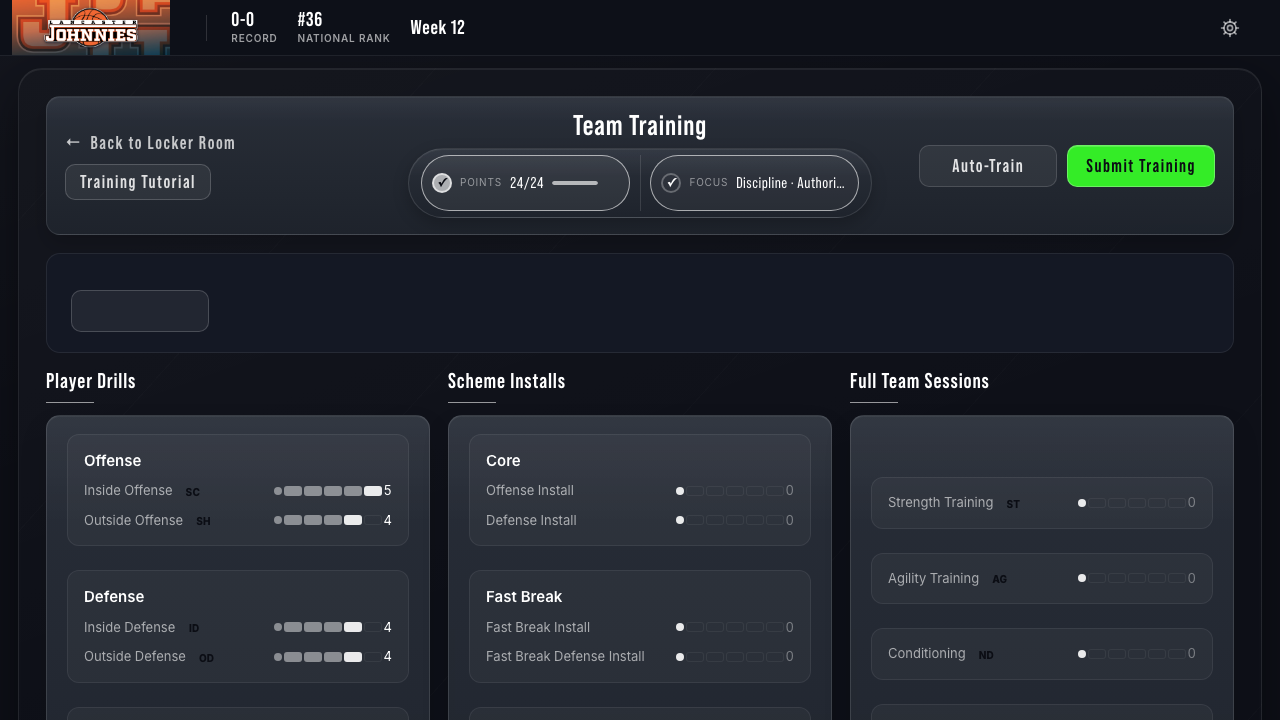
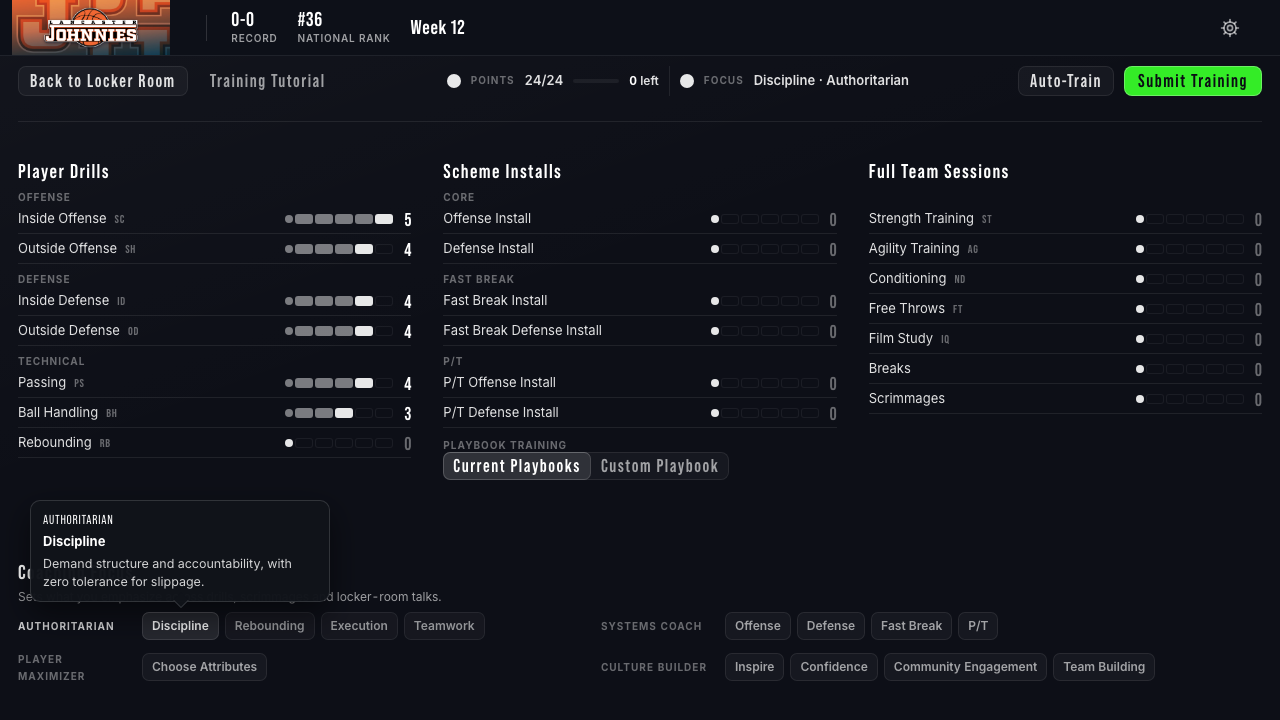
Polish standalone training to pip-only rows and a titled report after merging stale-return.
Keep training-week Advance on /training.html and never offer a finished week's Advance after a return; include the report and reshot screenshots in this commit.

diff --git a/tests/e2e/training-advance-focus.spec.js b/tests/e2e/training-advance-focus.spec.js
@@ -251,7 +251,21 @@ async function expectHeaderVisible(page) {
 
 async function capturePage(page, dest) {
   await resetScroll(page);
-  await page.screenshot({ path: dest });
+  const host = new URL(page.url()).pathname;
+  if (host === '/training.html' || host === '/training-report.html') {
+    await page.waitForFunction(() => {
+      if (!document.documentElement.classList.contains('gob-focus')) return false;
+      if (document.querySelector('nav.rail')) return false;
+      if (document.getElementById('play-now')) return false;
+      if ((document.body.innerText || '').includes('STARTING')) return false;
+      return true;
+    });
+  }
+  await page.evaluate(() => document.fonts && document.fonts.ready);
+  await page.evaluate(() => new Promise((resolve) => {
+    requestAnimationFrame(() => requestAnimationFrame(resolve));
+  }));
+  await page.screenshot({ path: dest, animations: 'disabled' });
 }
 
 function fccQuery(tab) {
@@ -353,7 +367,7 @@ test('a) training week Advance → focus → allocate → Submit → Report → 
   await waitOverlay(page);
   await expect(page.locator('#back-btn')).toHaveText('Back to Locker Room');
   await expect(page.locator('#submit-btn')).toHaveText('Submit Training');
-  await expect(page.locator('.slider').first()).toBeVisible({ timeout: 30000 });
+  await expect(page.locator('#training-view .ps').first()).toBeVisible({ timeout: 30000 });
   await expect(page.locator('#player-dev-section')).toBeHidden();
   const focusLook = await page.evaluate(() => {
     const header = document.querySelector('#training-view .training-header');
@@ -368,17 +382,52 @@ test('a) training week Advance → focus → allocate → Submit → Report → 
       const name = (el.getAttribute('aria-label') || el.title || el.textContent || '').replace(/\s+/g, '');
       return !name.length;
     }).map((el) => el.id || el.className);
+    const rows = [...document.querySelectorAll('#training-view .slider-label')];
+    const rowControls = rows.map((row) => {
+      const range = row.querySelector('input[type=range]');
+      const pips = row.querySelector('.ps');
+      const box = (el) => {
+        if (!el) return { visible: false, w: 0 };
+        const s = getComputedStyle(el);
+        const r = el.getBoundingClientRect();
+        const clipped = s.clipPath && s.clipPath !== 'none';
+        const tiny = r.width <= 2 && r.height <= 2;
+        return {
+          visible: s.display !== 'none' && s.visibility !== 'hidden' && r.width > 8 && r.height > 4 && !clipped && !tiny,
+          w: r.width,
+        };
+      };
+      return { range: box(range), pips: box(pips) };
+    });
+    const fb = [...document.querySelectorAll('#training-view .label-text')].find((el) =>
+      (el.textContent || '').includes('Fast Break Defense'));
+    const coaching = document.querySelector('#training-view h2.coaching-title');
+    const cs = coaching ? getComputedStyle(coaching) : null;
     return {
       host: !!document.getElementById('training-view'),
       headerBgImage: hs ? hs.backgroundImage : '',
       noteDisplay: ns ? ns.display : '',
       emptyButtons: empty,
+      rowControls,
+      fbLabel: fb ? (fb.textContent || '').replace(/\s+/g, ' ').trim() : '',
+      fbOverflow: fb ? getComputedStyle(fb).overflow : '',
+      coachingAlign: cs ? cs.textAlign : '',
     };
   });
   expect(focusLook.host, JSON.stringify(focusLook)).toBe(true);
   expect(focusLook.headerBgImage, JSON.stringify(focusLook)).toBe('none');
   expect(focusLook.noteDisplay, JSON.stringify(focusLook)).toBe('none');
   expect(focusLook.emptyButtons, JSON.stringify(focusLook)).toEqual([]);
+  expect(focusLook.rowControls.length, JSON.stringify(focusLook)).toBeGreaterThan(0);
+  focusLook.rowControls.forEach((row) => {
+    expect(row.range.visible, JSON.stringify(row)).toBe(false);
+    expect(row.pips.visible, JSON.stringify(row)).toBe(true);
+  });
+  expect(focusLook.fbLabel, JSON.stringify(focusLook)).toBe('Fast Break Defense Install');
+  expect(focusLook.coachingAlign, JSON.stringify(focusLook)).toBe('left');
+  await page.reload({ waitUntil: 'domcontentloaded' });
+  await expect(page.locator('html.gob-focus')).toHaveCount(1);
+  await expect(page.locator('#training-view .ps').first()).toBeVisible({ timeout: 30000 });
   await capturePage(page, path.join(OUT, 'after-focus-default-1280.png'));
 
   await allocateClassic24(page);
@@ -395,6 +444,8 @@ test('a) training week Advance → focus → allocate → Submit → Report → 
   await expect(page.locator('#gob-subtabs')).toHaveCount(0);
   await expect(page.getByRole('button', { name: 'Continue to Office', exact: true })).toBeVisible({ timeout: 20000 });
   await expectHeaderVisible(page);
+  await expect(page.locator('#training-report-view h1.page-title')).toBeVisible();
+  await expect(page.locator('#training-report-view h1.page-title')).toHaveText('Training Report');
   await expect(page.locator('#training-focus')).toHaveText('Discipline (Authoritarian)');
   await expect(page.locator('#training-notes-container')).toContainText('Roger Henrich');
   await expect(page.locator('#training-notes-container')).not.toContainText('No training notes');
@@ -449,7 +500,7 @@ test('a) focus page at 1920 and Set Lineup chrome compare', async ({ page }) => 
   await stubAuth(page);
   await installApi(page);
   await page.goto('/training.html?franchise_id=' + FID + '&team_id=' + TEAM + '&mode=franchise&session_type=in-season');
-  await expect(page.locator('.slider').first()).toBeVisible({ timeout: 30000 });
+  await expect(page.locator('#training-view .ps').first()).toBeVisible({ timeout: 30000 });
   await expect(page.locator('html.gob-focus')).toHaveCount(1);
   await capturePage(page, path.join(OUT, 'after-focus-default-1920.png'));
 
@@ -517,7 +568,7 @@ test('d) camp week 1 Advance opens the focus page', async ({ page }) => {
   await page.locator('#play-now').click();
   await expect(page).toHaveURL(/\/training\.html/, { timeout: 20000 });
   await expect(page.locator('html.gob-focus')).toHaveCount(1);
-  await expect(page.locator('.slider').first()).toBeVisible({ timeout: 30000 });
+  await expect(page.locator('#training-view .ps').first()).toBeVisible({ timeout: 30000 });
   await expect(page.url()).toContain('session_type=preseason');
 });
 
@@ -531,7 +582,7 @@ test('e) tutorial path stays weekly focus on training.html', async ({ page }) =>
   await expect(page).toHaveURL(/mode=tutorial/);
   await expect(page.locator('html.gob-focus')).toHaveCount(1);
   await expect(page.locator('#submit-btn')).toBeVisible();
-  await expect(page.locator('.slider').first()).toBeVisible({ timeout: 30000 });
+  await expect(page.locator('#training-view .ps').first()).toBeVisible({ timeout: 30000 });
   await expect(page.locator('#player-dev-section')).toBeHidden();
   await capturePage(page, path.join(OUT, 'after-tutorial-1280.png'));
   await page.setViewportSize({ width: 1920, height: 1080 });
@@ -544,13 +595,13 @@ test('f) leave-confirm on unsaved allocation; clean Back just leaves', async ({ 
   await stubAuth(page);
   await installApi(page);
   await page.goto('/training.html?franchise_id=' + FID + '&team_id=' + TEAM + '&mode=franchise&session_type=in-season');
-  await expect(page.locator('.slider').first()).toBeVisible({ timeout: 30000 });
+  await expect(page.locator('#training-view .ps').first()).toBeVisible({ timeout: 30000 });
   await page.locator('#back-btn').click();
   await expect(page.locator('.gob-leave-confirm')).toHaveCount(0);
   await expect(page).toHaveURL(/franchise-command-center\.html/, { timeout: 20000 });
 
   await page.goto('/training.html?franchise_id=' + FID + '&team_id=' + TEAM + '&mode=franchise&session_type=in-season');
-  await expect(page.locator('.slider').first()).toBeVisible({ timeout: 30000 });
+  await expect(page.locator('#training-view .ps').first()).toBeVisible({ timeout: 30000 });
   await page.locator('.slider').first().evaluate((el) => {
     el.value = '2';
     el.dispatchEvent(new Event('input', { bubbles: true }));
@@ -601,6 +652,8 @@ test('h) Office All changes → standalone report → Back → Office', async ({
   test.skip(CAPTURE_BEFORE, 'after only');
   await page.setViewportSize({ width: 1280, height: 720 });
   await openOffice(page, { cc: officeWithChangesCc() });
+  await expect(page.locator('#play-now')).toHaveText('Play Next Game');
+  await expect(page.locator('#play-now')).not.toHaveText(/Run Training|Run Training Camp|Submit Training/);
   const link = page.locator('#office-root .wkc-f .lnk');
   await expect(link).toHaveText(/All changes/);
   const href = await link.getAttribute('href');
@@ -634,6 +687,7 @@ test('i) old /training-report.html and ?tab=training-report-view land on the sta
   await expect(page).toHaveURL(/\/training-report\.html/);
   await expect(page.locator('html.gob-focus')).toHaveCount(1);
   await expect(page.locator('#week-number')).toHaveText('12', { timeout: 20000 });
+  await expect(page.locator('#training-report-view h1.page-title')).toHaveText('Training Report');
   await expect(page.getByRole('button', { name: 'Back to Locker Room', exact: true })).toBeVisible();
   await expectHeaderVisible(page);
   await capturePage(page, path.join(OUT, 'after-report-standalone-1280.png'));

diff --git a/FrontEnd/static/training.css b/FrontEnd/static/training.css
@@ -2256,7 +2256,7 @@ body.training-page .slider-container .slider:focus-visible ~ .ps {
   grid-template-columns: minmax(0, 1fr) auto;
   align-items: center;
   gap: var(--space-12);
-  height: var(--dsz-30);
+  height: auto;
   min-height: var(--dsz-30);
   margin: 0;
   padding: 0;
@@ -2270,8 +2270,8 @@ body.training-page .slider-container .slider:focus-visible ~ .ps {
   font-size: var(--fs-13);
   font-weight: var(--fw-regular);
   color: var(--text-87);
-  white-space: nowrap;
-  overflow: hidden;
+  white-space: normal;
+  overflow: visible;
 }
 #training-view .attr-chip {
   display: inline;
@@ -2292,6 +2292,49 @@ body.training-page .slider-container .slider:focus-visible ~ .ps {
   gap: var(--space-12);
   margin: 0;
   background: transparent;
+}
+/* Same clip as body.training-page: the range stays the model, pips are the only control. */
+#training-view .slider-container .slider {
+  position: absolute;
+  width: 1px;
+  height: 1px;
+  margin: 0;
+  padding: 0;
+  overflow: hidden;
+  clip: rect(0 0 0 0);
+  clip-path: inset(50%);
+  white-space: nowrap;
+}
+#training-view .ps {
+  display: inline-flex;
+  align-items: center;
+  gap: var(--space-2);
+}
+#training-view .ps button {
+  display: block;
+  width: 18px;
+  height: 10px;
+  padding: 0;
+  border: 0;
+  border-radius: var(--radius-3);
+  background: var(--white-6);
+}
+#training-view .ps button:first-of-type {
+  width: 8px;
+  height: 8px;
+  border-radius: 50%;
+}
+#training-view .ps button.f { background: var(--white-45); }
+#training-view .ps button.c { background: var(--white-90); }
+#training-view .ps button.x {
+  background: transparent;
+  box-shadow: inset 0 0 0 1px var(--white-6);
+}
+#training-view .ps button:disabled { cursor: not-allowed; }
+#training-view .slider-container .slider:focus-visible ~ .ps {
+  outline: 2px solid var(--text-100);
+  outline-offset: 3px;
+  border-radius: var(--radius-3);
 }
 #training-view .slider-value,
 #training-view .ps-n {
@@ -2340,12 +2383,16 @@ body.training-page .slider-container .slider:focus-visible ~ .ps {
 }
 
 #training-view .coaching-section {
-  margin-top: var(--dsp-24);
+  margin-top: var(--dsp-16);
+}
+#training-view h2.coaching-title {
+  text-align: left;
 }
 #training-view .coaching-subtitle {
-  margin: calc(-1 * var(--dsp-6)) 0 var(--dsp-6);
+  margin: 0 0 var(--dsp-6);
   font-size: var(--fs-12);
   color: var(--text-60);
+  text-align: left;
 }
 #training-view .archetypes-grid {
   display: grid;

diff --git a/FrontEnd/static/training-report.css b/FrontEnd/static/training-report.css
@@ -1706,12 +1706,19 @@ body.training-report-page {
 }
 
 #training-report-view .report-header {
+  display: flex;
+  justify-content: space-between;
+  align-items: flex-start;
+  gap: var(--space-12);
   padding: 0 0 var(--dsp-16);
   background: transparent;
   box-shadow: none;
   border: 0;
 }
-#training-report-view .page-title {
+#training-report-view .page-title,
+#training-report-view .report-header .page-title {
+  display: block;
+  margin: 0 0 var(--dsp-6);
   font: var(--fw-bold) var(--fs-20)/var(--lh-1) var(--font-display);
   color: var(--text-100);
 }
@@ -1862,7 +1869,10 @@ body.training-report-page {
   height: var(--dsz-30);
   margin: 0 0 var(--dsp-10);
 }
-#training-report-view .report-header .page-title { display: none; }
+#training-report-view #locker-room-btn {
+  align-self: flex-start;
+  flex: none;
+}
 #training-report-view .toggle-btn,
 #training-report-view .toggle-btn.active {
   min-height: var(--dsz-28);

diff --git a/tests/e2e/prep-scouting-speed-sfx.spec.js b/tests/e2e/prep-scouting-speed-sfx.spec.js
@@ -247,9 +247,9 @@ test('training, training report, and scouting toggles use SFX_SELECT', async ({ 
     const overlay = document.getElementById('page-load-overlay');
     return !overlay || getComputedStyle(overlay).display === 'none';
   });
-  await expect(page.locator('.slider').first()).toBeVisible({ timeout: 30000 });
+  await expect(page.locator('#training-view .ps').first()).toBeVisible({ timeout: 30000 });
   const slider = page.locator('input[type="range"].slider').first();
-  await expect(slider).toBeVisible();
+  await expect(slider).toBeAttached();
   await armSpy(page);
   await slider.evaluate((el) => {
     el.value = String(Math.min(Number(el.max || 4), Number(el.value) + 1));

diff --git a/reports/training-advance-focus-2026-09-30.md b/reports/training-advance-focus-2026-09-30.md
@@ -54,13 +54,13 @@ Passed in Playwright.
 | `before-flow-in-app-1280.png` | Develop: weekly allocation on Prep › Player Training; Advance overridden to Submit Training |
 | `before-prep-player-training-1280.png` | Same develop Prep tab at 1280 |
 | `before-prep-player-training-1920.png` | Develop Prep tab at 1920 |
-| `after-focus-default-1280.png` | New weekly focus page, empty allocation |
-| `after-focus-allocated-unsaved-1280.png` | 24/24 + Discipline, Submit enabled |
-| `after-submit-report-1280.png` | Training Report drill-in after Submit |
-| `after-prep-player-training-1280.png` | Prep tab: PDG + pointer only; Advance still "Run Training" |
-| `after-focus-default-1920.png` | Focus page at 1920 |
-| `after-set-lineup-chrome-1280.png` | Set Lineup focus chrome for comparison (no rail, no shell Advance) |
-| `after-tutorial-1280.png` | Tutorial weekly focus |
+| `after-focus-default-1280.png` / `1920` | Tokenised weekly focus, empty allocation |
+| `after-focus-allocated-unsaved-1280.png` / `1920` | 24/24 + Discipline, Submit enabled |
+| `after-submit-report-1280.png` / `1920` | Standalone tokenised report after Submit (Discipline · Authoritarian) |
+| `after-prep-player-training-1280.png` / `1920` | Prep tab: PDG + pointer only |
+| `after-set-lineup-chrome-1280.png` | Set Lineup focus chrome for comparison |
+| `after-tutorial-1280.png` / `1920` | Tutorial weekly focus |
+| `after-report-from-office-1280.png` / `1920` | Office All changes → standalone report |
 
 ## Files
 
@@ -83,10 +83,10 @@ Passed in Playwright.
 
 ## Gates
 
-- `../gob-simplified/.venv/bin/python -m pytest --ignore=tests/e2e -q`: **4203 passed**, 14 skipped, 109 xfailed, **1 xpassed**, **0 failed** (226.20s). The xpass is pre-existing (not this branch).
-- Playwright (`env -u CI PORT=8260 BASE_URL=http://localhost:8260`, workers=1): **787 passed**, 6 skipped, **0 failed** (12.0m). Includes training-advance-focus a–j (report add-on).
-- `scripts/check_ui_tokens.py --strict --no-write`: **exit 0**. New colour-law 0 / 0 / 0. Legacy 210 green / 610 orange / 0 reward-gold (820).
-- `scripts/ci/check_migration_gates.py`: **passed**. Gate A: 0 imports in 0 files. Gate B: 134 lines in 42 files. Notes: `training.html` and `training-report.html` are now clean (0, was 1 each). Did **not** `--write-allowlist`.
+- `../gob-simplified/.venv/bin/python -m pytest -q`: **4232 passed**, 14 skipped, 109 xfailed, **1 xpassed**, **0 failed** (236.16s). The xpass is pre-existing (not this branch).
+- Playwright (`env -u CI PORT=8260 BASE_URL=http://localhost:8260`, workers=1, once): **772 passed**, 6 skipped, **0 failed** (11.8m).
+- `scripts/check_ui_tokens.py --strict --no-write`: **exit 0**. New colour-law 0 / 0 / 0. Legacy 204 green / 589 orange / 0 reward-gold (793).
+- `scripts/ci/check_migration_gates.py`: **passed**. Gate A: 0 imports in 0 files. Gate B: 136 lines in 44 files. Notes: `training.html` and `training-report.html` are now clean (0, was 1 each). Did **not** `--write-allowlist`.
 
 ## Add-on: Training Report is a standalone focus page
 
@@ -103,7 +103,45 @@ Passed in Playwright.
 | `after-report-standalone-1920.png` | Same at 1920 |
 | `after-set-lineup-chrome-1280.png` | Set Lineup focus chrome (unchanged compare) |
 
+## Look pass (not ready to merge)
+
+Merged `origin/develop` (ort, no conflict markers). Kept both sides: this branch’s training/report focus hosts, and develop’s `chore/redirects-fcc-leftovers` (FCC peel, stats/team-traits stubs, freeze ceilings). Did not add rules to `franchise-command-center.css`.
+
+### Why the standalones looked legacy
+
+Tokenised CSS is scoped to `#training-view` / `#training-report-view`. The standalone pages inited on `document.body` with `body.training-page` / `body.training-report-page`, so they painted the old resource-page gradient cards and red/green pill bars.
+
+The empty panel under the Team Training header was `#training-state-note`. Its `display: flex` outranked the UA `[hidden]` rule. The empty button was `#training-state-note-link` (a `gob-btn` with no text). `#training-view .training-state-note[hidden] { display: none }` already existed for the in-app host; standalone never hit it.
+
+### What changed
+
+- `/training.html` mounts `init(#training-view, { sections: 'weekly' })`. No `body.training-page`. Weekly tools stay in a flat tokenised toolbar (Back, Points/Focus, Auto-Train, Submit). The FCC tab still hides `.training-header` (tools park in the sub-tab row).
+- `/training-report.html` mounts `init(#training-report-view)`. Tokenised notes columns + 11-row Team Report list. Pill bars are not created on the token host and are `display: none` if anything still emits them.
+- Submit redirect fills `week` from FranchiseContext or the loaded training-points week. `gobAdvance` also writes `week` onto `/training.html`. The report GET is the same `/franchise/training-report?…&week=` as the old drill-in.
+
+### Data proof (same submit: Discipline · Authoritarian)
+
+After the same 24-point + Discipline submit, the standalone report shows **Training Focus: Discipline (Authoritarian)** and the same notes the tokenised in-FCC report used (Roger Henrich / No Significant Updates / Inside Defense / Man / Horn / Ready / Improving). GET includes `week=12`. Team Report is 11 list rows, white ▲, no pill bars.
+
+### Polish (this pass)
+
+Merged `origin/develop` again (`fix/fcc-stale-return`). Kept both: training-week Advance still goes to `/training.html`; after a return, a finished week's Advance is never offered (`gobNav.reloadIfStale` + `fcc-fresh-after-game.spec.js`). A completed training week on Office is `Play Next Game`, not Run Training (`training-advance-focus` test h).
+
+Focus rows clip the range input (same as in-app) so only the pip bar is the control. Scheme Install labels wrap so "Fast Break Defense Install" is complete at 1280. Coaching Focus is a left-aligned section heading with normal spacing. The standalone report shows `h1` "Training Report" above the week meta, with Continue to Office aligned to that title.
+
+### Next to `reports/prep-training-tokens/`
+
+| This pass | Tokenised reference |
+|---|---|
+| `after-focus-default-1280.png` / `1920` | `after-in-season-1280.png` / `after-camp-1280.png` (3-col sliders + coaching chips; focus chrome instead of rail/sub-tabs) |
+| `after-submit-report-1280.png` / `1920` | `after-report-1280.png` (notes columns + 11-row Team Report, white ▲) |
+
+### Guards
+
+Computed-style: focus header `background-image: none`; state-note `display: none`; no visible unnamed chrome buttons (slider pips and the settings gear use aria-label). Report: `#training-report-view` host, 11 `.team-attr-item` grid rows, 0 visible `.attr-pill`, Training Focus text equals the submitted leaf.
+
 ## Unsure
 
 - Desktop tutorial intercept still fires on first Advance if `__gobAuthMeData` has no dismissals; the later-advance path is the same as today.
 - `team_id` on the submit body is FranchiseContext's resolved id (ObjectId), not the display name in the FCC query. Same as today's `liveParams()`.
+- `after-in-season-1280.png` in prep-training-tokens is now the Prep player-dev grid on current develop; the weekly token look is the older camp/in-season frames from when allocation still lived in-app.

diff --git a/_documentation_master/11_Design_Systems/UX_System.md b/_documentation_master/11_Design_Systems/UX_System.md
@@ -550,7 +550,7 @@ Prep › Scouting resolves the upcoming opponent from the already-loaded FCC pay
 
 ### Prep views are in-app modules; the embed bridge is retired
 
-Training, Game Plan, Playbooks, and Scouting are in-app module views: each is an ES module with `init(root, options)` / `teardown` / `revalidate` / `shellHtml()`, mounted by `gobViews.js`, with no `DOMContentLoaded` auto-start. There is no `?embed=1` fetch, no `DOMParser`, and no IIFE. `prepEmbed.js` is deleted; its shared helpers (`ensureCss`, `loadScript`, `ensureFranchiseMode`) live in `js/shared/views/viewLoader.js`, and `ensureFranchiseMode` reads `FranchiseContext` only (no `URLSearchParams` fallback). Training uses one implementation: `sections: 'player-dev'` in Prep, `sections: 'weekly'` on `/training.html` (focus, including tutorial). The Training Report uses the same `training-report.js` module on `/training-report.html` in focus (including tutorial-adjacent and Office/News entry). Both standalone hosts mount the module on `#training-view` / `#training-report-view` so the tokenised in-app CSS applies (no `body.training-page` / `body.training-report-page` gradient cards or red/green pill bars). `game-plan.html` and `playbooks.html` still redirect except `mode=tutorial` (and `game-plan.html` `resume_from_timeout=true`, which stays focus).
+Training, Game Plan, Playbooks, and Scouting are in-app module views: each is an ES module with `init(root, options)` / `teardown` / `revalidate` / `shellHtml()`, mounted by `gobViews.js`, with no `DOMContentLoaded` auto-start. There is no `?embed=1` fetch, no `DOMParser`, and no IIFE. `prepEmbed.js` is deleted; its shared helpers (`ensureCss`, `loadScript`, `ensureFranchiseMode`) live in `js/shared/views/viewLoader.js`, and `ensureFranchiseMode` reads `FranchiseContext` only (no `URLSearchParams` fallback). Training uses one implementation: `sections: 'player-dev'` in Prep, `sections: 'weekly'` on `/training.html` (focus, including tutorial). The Training Report uses the same `training-report.js` module on `/training-report.html` in focus (including tutorial-adjacent and Office/News entry). Both standalone hosts mount the module on `#training-view` / `#training-report-view` so the tokenised in-app CSS applies (no `body.training-page` / `body.training-report-page` gradient cards or red/green pill bars). Weekly rows show only the pip control (the range input stays the model, clipped). The standalone report shows an `h1` "Training Report" above the week meta line, with Continue to Office / Back to Locker Room aligned to that title. `game-plan.html` and `playbooks.html` still redirect except `mode=tutorial` (and `game-plan.html` `resume_from_timeout=true`, which stays focus).
 
 ### Surfaces outside `FrontEnd/static`
 
